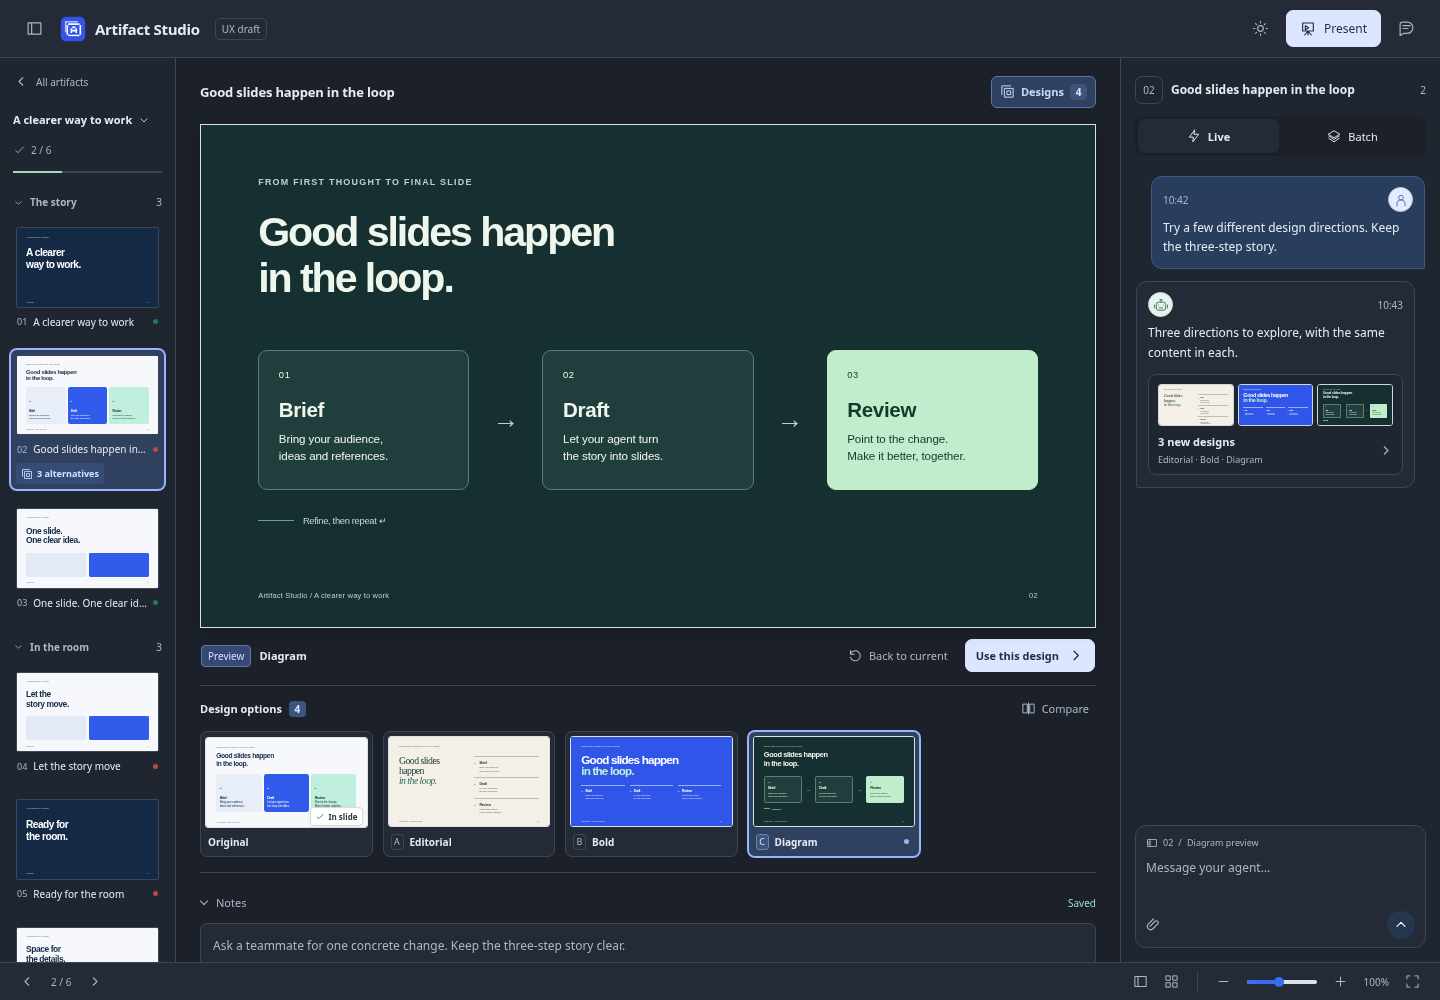
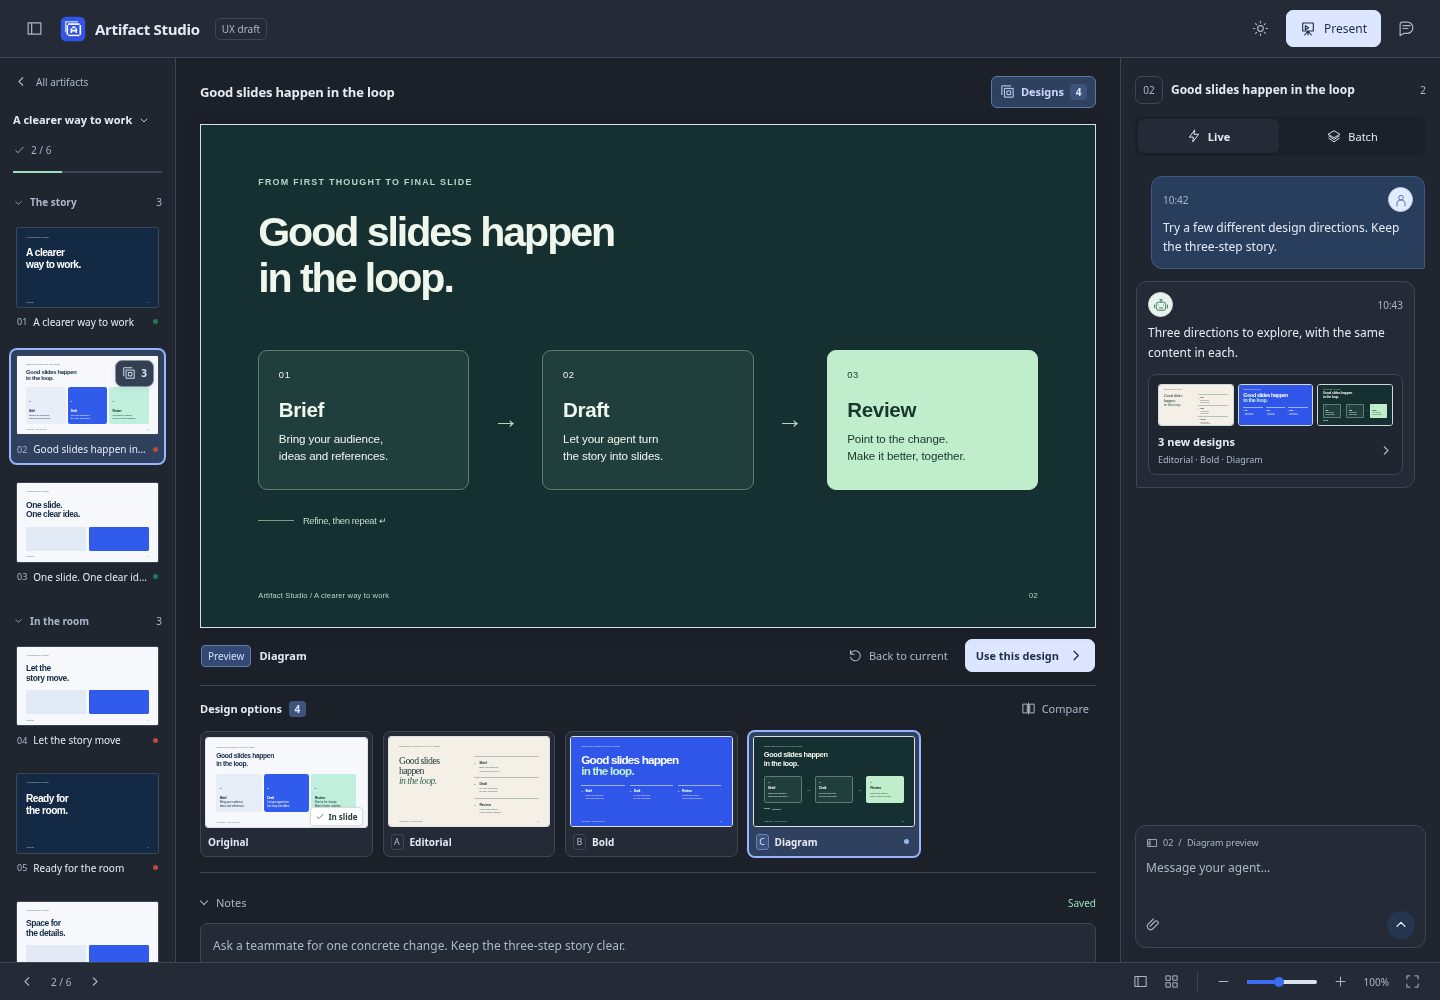
docs(ux): add clickable hover previews for slide alternatives

Changed region(s): [[0.0, 0.465, 0.125, 0.961], [0.0625, 0.341, 0.125, 0.403]]

diff --git a/docs/prototypes/slide-alternatives/prototype.js b/docs/prototypes/slide-alternatives/prototype.js
@@ -38,12 +38,74 @@
   ];
   let current = 'original', selected = 'original', activeSlide = 1, previousChoice = null, approved = false;
   let compareTrigger = null, compareReference = current;
+  const peek = $('alternative-peek');
+  let peekTrigger = null, peekCloseTimer = null, suppressPeekFocus = false;
   const announce = text => { $('live-status').textContent = text; };
   const selectedIsCurrent = () => selected === current;
 
   function renderRail() {
-    $('slide-overview').innerHTML = slides.map((slide,index) => `${index === 0 || index === 3 ? `<div class="draft-section-label">${icon('down')}${index === 0 ? 'The story' : 'In the room'}<span>3</span></div>` : ''}<button class="draft-slide-thumb" data-slide="${index}" aria-label="Slide ${index+1}: ${slide.name}${index === 1 ? ', 3 alternative designs available' : ''}" ${index === activeSlide ? 'aria-current="true"' : ''}><div class="rail-slide-image" aria-hidden="true">${index === 1 ? design(current).html : slide.html}</div><span class="rail-slide-caption"><span class="rail-slide-number">0${index+1}</span><span>${slide.name}</span><span class="dot ${index === 0 || index === 2 ? 'green' : 'red'}"></span></span>${index === 1 ? `<span class="rail-alternatives">${icon('designs')}3 alternatives</span>` : ''}</button>`).join('');
+    closeAlternativePeek();
+    $('slide-overview').innerHTML = slides.map((slide,index) => `${index === 0 || index === 3 ? `<div class="draft-section-label">${icon('down')}${index === 0 ? 'The story' : 'In the room'}<span>3</span></div>` : ''}<div class="draft-slide-entry"><button class="draft-slide-thumb" data-slide="${index}" aria-label="Slide ${index+1}: ${slide.name}${index === 1 ? ', 3 alternative designs available' : ''}" ${index === activeSlide ? 'aria-current="true"' : ''}><div class="rail-slide-image" aria-hidden="true">${index === 1 ? design(current).html : slide.html}</div><span class="rail-slide-caption"><span class="rail-slide-number">0${index+1}</span><span>${slide.name}</span><span class="dot ${index === 0 || index === 2 ? 'green' : 'red'}"></span></span></button>${index === 1 ? `<button class="rail-alternatives" data-alternatives aria-label="View 3 alternative designs for slide 2" aria-expanded="false" aria-controls="alternative-peek" aria-describedby="alternative-peek-help">${icon('designs')}<span>3</span></button>` : ''}</div>`).join('');
   }
+
+  function closeAlternativePeek({restoreFocus = false} = {}) {
+    clearTimeout(peekCloseTimer);
+    if (peek.matches(':popover-open')) peek.hidePopover();
+    peekTrigger?.setAttribute('aria-expanded','false');
+    if (restoreFocus && peekTrigger?.isConnected) { suppressPeekFocus = true; peekTrigger.focus({preventScroll:true}); suppressPeekFocus = false; }
+  }
+
+  function positionAlternativePeek(point) {
+    const width = peek.offsetWidth, height = peek.offsetHeight;
+    let top = point.y-height-16;
+    if (top < 12) top = point.y+18;
+    peek.style.left = `${Math.max(16,Math.min(innerWidth-width-16,point.x-35))}px`;
+    peek.style.top = `${Math.max(16,Math.min(innerHeight-height-16,top))}px`;
+  }
+
+  function openAlternativePeek(trigger, point) {
+    clearTimeout(peekCloseTimer);
+    peekTrigger = trigger;
+    if (!peek.matches(':popover-open')) {
+      $('peek-fan').innerHTML = designs.filter(item => item.id !== current).map(item => `<span class="peek-slot"><button class="peek-card" data-peek-design="${item.id}" aria-label="Preview ${item.name} design"><span class="peek-card-image" aria-hidden="true">${item.html}</span><span class="peek-card-name">${item.name}</span></button></span>`).join('');
+      peek.showPopover();
+      trigger.setAttribute('aria-expanded','true');
+    }
+    const rect = trigger.getBoundingClientRect();
+    positionAlternativePeek(point || {x:rect.left+rect.width/2,y:rect.top});
+  }
+
+  function queuePeekClose() {
+    clearTimeout(peekCloseTimer);
+    peekCloseTimer = setTimeout(() => {
+      if (!peek.matches(':hover') && !peekTrigger?.matches(':hover') && !peek.contains(doc.activeElement) && doc.activeElement !== peekTrigger) closeAlternativePeek();
+    },240);
+  }
+
+  function openDesignOptions(id) {
+    closeAlternativePeek();
+    if (activeSlide !== 1) { activeSlide = 1; selected = current; renderSlide(); }
+    $('design-tray').hidden = false; $('design-toggle').setAttribute('aria-expanded','true');
+    doc.body.classList.remove('slides-open'); $('toggle-slides').setAttribute('aria-expanded','false');
+    preview(id || (selected !== current ? selected : designs.find(item => item.id !== current).id),{focus:true});
+    $('design-tray').scrollIntoView({block:'nearest'});
+  }
+
+  $('slide-overview').addEventListener('pointerover', event => { const trigger = event.target.closest('[data-alternatives]'); if (trigger && event.pointerType !== 'touch' && !trigger.contains(event.relatedTarget)) openAlternativePeek(trigger,{x:event.clientX,y:event.clientY}); });
+  $('slide-overview').addEventListener('pointermove', event => { if (event.target.closest('[data-alternatives]') && peek.matches(':popover-open')) positionAlternativePeek({x:event.clientX,y:event.clientY}); });
+  $('slide-overview').addEventListener('pointerout', event => { const trigger = event.target.closest('[data-alternatives]'); if (trigger && !trigger.contains(event.relatedTarget)) queuePeekClose(); });
+  $('slide-overview').addEventListener('focusin', event => { const trigger = event.target.closest('[data-alternatives]'); if (trigger && !suppressPeekFocus && trigger.matches(':focus-visible')) openAlternativePeek(trigger); });
+  $('slide-overview').addEventListener('focusout', queuePeekClose);
+  $('slide-overview').addEventListener('keydown', event => { if (event.key === 'ArrowDown' && event.target.closest('[data-alternatives]')) { event.preventDefault(); openAlternativePeek(event.target.closest('[data-alternatives]')); peek.querySelector('[data-peek-design]').focus(); } });
+  peek.addEventListener('pointerenter', () => clearTimeout(peekCloseTimer));
+  peek.addEventListener('pointerleave', queuePeekClose);
+  peek.addEventListener('focusout', queuePeekClose);
+  peek.addEventListener('click', event => { const option = event.target.closest('[data-peek-design]'); if (option) openDesignOptions(option.dataset.peekDesign); });
+  $('peek-all').addEventListener('click', () => openDesignOptions());
+  doc.addEventListener('pointerdown', event => { if (!peek.contains(event.target) && !event.target.closest('[data-alternatives]')) closeAlternativePeek(); });
+  doc.addEventListener('keydown', event => { if (event.key === 'Escape' && peek.matches(':popover-open')) { event.preventDefault(); event.stopImmediatePropagation(); closeAlternativePeek({restoreFocus:peek.contains(doc.activeElement) || doc.activeElement === peekTrigger}); } },true);
+  doc.addEventListener('scroll', () => closeAlternativePeek(),true);
+  window.addEventListener('resize', () => closeAlternativePeek());
 
   function optionMarkup(item, prefix) {
     return `<button class="design-option" role="tab" id="${prefix}-${item.id}" aria-selected="${item.id === selected}" ${prefix === 'design' ? 'aria-controls="slide-stage"' : 'aria-controls="compare-candidate"'} tabindex="${item.id === selected ? '0' : '-1'}" data-design="${item.id}" aria-label="${item.name}${item.id === current ? ', in slide' : ''}"><span class="design-option-image" aria-hidden="true">${item.html}</span><span class="design-option-label">${item.letter ? `<span class="option-letter" aria-hidden="true">${item.letter}</span>` : ''}<strong>${item.name}</strong></span>${item.id === current ? `<span class="in-slide-mark" aria-hidden="true">${icon('check')}In slide</span>` : ''}</button>`;
@@ -139,7 +201,7 @@
   $('close-compare').addEventListener('click', closeComparison);
   $('compare-dialog').addEventListener('close', () => { compareTrigger?.focus({preventScroll:true}); });
   $('design-toggle').addEventListener('click', () => { const expanded = $('design-toggle').getAttribute('aria-expanded') === 'true'; $('design-tray').hidden = expanded; $('design-toggle').setAttribute('aria-expanded',String(!expanded)); });
-  $('review-designs').addEventListener('click', () => { activeSlide = 1; renderSlide(); $('design-tray').hidden = false; $('design-toggle').setAttribute('aria-expanded','true'); preview(designs.find(item => item.id !== current).id,{focus:true}); $('design-tray').scrollIntoView({block:'nearest'}); });
+  $('review-designs').addEventListener('click', () => openDesignOptions());
   $('undo-choice').addEventListener('click', () => {
     if (previousChoice === null) return;
     current = previousChoice.id; approved = previousChoice.approved; selected = current; previousChoice = null;
@@ -166,7 +228,7 @@
     if (activeSlide === 1) { render(); $('design-toggle').setAttribute('aria-expanded','true'); }
     else { $('slide-stage').innerHTML = slides[activeSlide].html; $('slide-stage').removeAttribute('aria-labelledby'); $('slide-stage').setAttribute('role','region'); $('approve').hidden = false; }
   }
-  $('slide-overview').addEventListener('click', event => { const thumb = event.target.closest('[data-slide]'); if (!thumb) return; activeSlide = Number(thumb.dataset.slide); selected = current; renderSlide(); doc.body.classList.remove('slides-open'); $('toggle-slides').setAttribute('aria-expanded','false'); if (innerWidth > 600) doc.querySelector(`[data-slide="${activeSlide}"]`).focus({preventScroll:true}); else $('toggle-slides').focus(); });
+  $('slide-overview').addEventListener('click', event => { if (event.target.closest('[data-alternatives]')) { openDesignOptions(); return; } const thumb = event.target.closest('[data-slide]'); if (!thumb) return; activeSlide = Number(thumb.dataset.slide); selected = current; renderSlide(); doc.body.classList.remove('slides-open'); $('toggle-slides').setAttribute('aria-expanded','false'); if (innerWidth > 600) doc.querySelector(`[data-slide="${activeSlide}"]`).focus({preventScroll:true}); else $('toggle-slides').focus(); });
   $('toggle-theme').addEventListener('click', () => { const dark = doc.documentElement.dataset.theme !== 'dark'; doc.documentElement.dataset.theme = dark ? 'dark' : 'light'; $('toggle-theme').setAttribute('aria-label',`Switch to ${dark ? 'light' : 'dark'} appearance`); });
   $('toggle-slides').addEventListener('click', () => { const open = doc.body.classList.toggle('slides-open'); $('toggle-slides').setAttribute('aria-expanded',String(open)); });
   $('toggle-chat').addEventListener('click', () => { const narrow = innerWidth <= 1100; doc.body.classList.toggle(narrow ? 'chat-open' : 'chat-closed'); $('toggle-chat').setAttribute('aria-expanded',String(narrow ? doc.body.classList.contains('chat-open') : !doc.body.classList.contains('chat-closed'))); });

diff --git a/docs/prototypes/slide-alternatives/prototype.css b/docs/prototypes/slide-alternatives/prototype.css
@@ -34,16 +34,37 @@ button:focus-visible,a:focus-visible,textarea:focus-visible,[tabindex]:focus-vis
 .draft-section-label{display:flex;align-items:center;gap:6px;padding:10px 3px 12px;font-size:10px;font-weight:600;color:var(--draft-muted)}
 .draft-section-label .ui-icon{width:11px;height:11px}
 .draft-section-label>span:last-child{margin-left:auto;font-weight:400}
-.draft-slide-thumb{display:block;width:100%;padding:5px;border:1px solid transparent;background:transparent;border-radius:7px;margin-bottom:12px;text-align:left}
-.draft-slide-thumb[aria-current=true]{border-color:var(--draft-blue);background:var(--draft-selected);box-shadow:0 0 0 1px var(--draft-blue)}
+.draft-slide-entry{position:relative;margin-bottom:12px;border:1px solid transparent;border-radius:7px}
+.draft-slide-entry:has([aria-current=true]){border-color:var(--draft-blue);background:var(--draft-selected);box-shadow:0 0 0 1px var(--draft-blue)}
+.draft-slide-thumb{display:block;width:100%;padding:5px;border:0;background:transparent;border-radius:7px;text-align:left}
 .rail-slide-image{width:100%;aspect-ratio:16/9;border:1px solid var(--draft-line);border-radius:2px;overflow:hidden;container-type:inline-size;position:relative}
 .rail-slide-caption{display:flex;align-items:center;gap:6px;margin:7px 1px 2px;font-size:10px;min-width:0}
 .rail-slide-caption>span:nth-child(2){white-space:nowrap;overflow:hidden;text-overflow:ellipsis;flex:1}
 .rail-slide-caption>.dot{width:5px;height:5px}
 .rail-slide-number{font-size:9px;color:var(--draft-muted)}
-.rail-alternatives{display:flex;gap:4px;align-items:center;width:fit-content;font-size:9px;font-weight:600;color:#315ab4;background:#e2ebff;border-radius:4px;padding:4px 5px;margin:7px 0 0}
-.rail-alternatives .ui-icon{width:12px;height:12px}
-:root[data-theme=dark] .rail-alternatives{background:#354c77;color:#d5e1ff}
+.rail-alternatives{position:absolute;right:10px;top:10px;display:flex;gap:5px;align-items:center;justify-content:center;min-width:39px;height:27px;font-size:10px;font-weight:600;color:#465a77;background:#fffffff5;border:1px solid #cbd6e5;border-radius:7px;padding:4px 6px;box-shadow:0 2px 6px #18315412;cursor:pointer}
+.rail-alternatives .ui-icon{width:14px;height:14px}
+.rail-alternatives:hover,.rail-alternatives:focus-visible,.rail-alternatives[aria-expanded=true]{background:#edf3ff;border-color:#7093d6;color:#244d9b;box-shadow:0 3px 9px #244d9b20}
+:root[data-theme=dark] .rail-alternatives{background:#2c3749f5;color:#dbe6ff;border-color:#8292ae}
+:root[data-theme=dark] .rail-alternatives:hover,:root[data-theme=dark] .rail-alternatives:focus-visible,:root[data-theme=dark] .rail-alternatives[aria-expanded=true]{background:#3b527d;border-color:#a5c0ff;color:#fff}
+.alternative-peek{position:fixed;inset:auto;margin:0;width:min(424px,calc(100vw - 32px));padding:14px 12px 7px;border:0;overflow:visible;background:transparent;color:var(--draft-ink)}
+.alternative-peek:popover-open{display:flex;flex-direction:column;align-items:center}
+.peek-fan{position:relative;width:100%;height:133px;isolation:isolate}
+.peek-slot{position:absolute;top:9px;width:39%;z-index:1}
+.peek-slot:nth-child(1){left:0;--peek-angle:-9deg;--peek-y:11px}
+.peek-slot:nth-child(2){left:30.5%;--peek-y:-7px;z-index:2}
+.peek-slot:nth-child(3){right:0;--peek-angle:9deg;--peek-y:11px}
+.peek-slot:hover,.peek-slot:focus-within{z-index:3}
+.peek-card{position:relative;display:block;width:100%;padding:5px 5px 6px;background:var(--draft-surface);border:1px solid #c6d0df;border-radius:9px;box-shadow:0 12px 26px #192f4b28,0 2px 5px #102d4b17;text-align:left;transform-origin:50% 100%;transform:translateY(var(--peek-y,0px)) rotate(var(--peek-angle,0deg))}
+.peek-card-image{display:block;aspect-ratio:16/9;position:relative;container-type:inline-size;overflow:hidden;border:1px solid #d7dfea;border-radius:4px;pointer-events:none}
+.peek-card-name{display:block;font-size:10px;font-weight:550;line-height:1.3;padding:6px 3px 0}
+.peek-slot:nth-child(3) .peek-card-name{text-align:right}
+.peek-slot:hover .peek-card,.peek-card:focus-visible{transform:translateY(-17px) rotate(0deg);border-color:var(--draft-blue);background:var(--draft-surface);box-shadow:0 16px 30px #192f4b33,0 0 0 1px var(--draft-blue)}
+.peek-all{display:inline-flex;align-items:center;gap:7px;padding:6px 10px;font-size:10px;font-weight:550;border-radius:20px;border:1px solid var(--draft-line);background:var(--draft-surface);box-shadow:0 3px 12px #14243b18}
+.peek-all .ui-icon{width:13px;height:13px}
+:root[data-theme=dark] .peek-card{border-color:#78869f;box-shadow:0 12px 26px #0005,0 2px 5px #0003}
+@media(hover:none),(pointer:coarse){.rail-alternatives{min-width:44px;height:36px;right:8px;top:8px}}
+@media(prefers-reduced-motion:no-preference){.rail-alternatives{transition:background .15s,border-color .15s,box-shadow .15s,transform .15s}.rail-alternatives:hover{transform:translateY(-1px)}.peek-card{transition:transform .16s ease,box-shadow .16s ease,border-color .16s ease}.alternative-peek:popover-open{animation:peek-appear .16s ease-out;transform-origin:25% 100%}@keyframes peek-appear{from{opacity:0;transform:translateY(7px) scale(.96)}to{opacity:1;transform:translateY(0) scale(1)}}}
 .draft-canvas{padding:17px 24px 22px;overflow:auto;scrollbar-width:thin;min-width:0}
 .draft-canvas-header{display:flex;align-items:center;gap:12px;margin-bottom:16px;min-height:33px}
 .draft-canvas-header h1{font-size:13px;font-weight:650;letter-spacing:-.15px;margin:0;white-space:nowrap;text-overflow:ellipsis;overflow:hidden;flex:1}

diff --git a/docs/prototypes/slide-alternatives/index.html b/docs/prototypes/slide-alternatives/index.html
@@ -62,6 +62,12 @@
     </aside>
   </main>
 
+  <section id="alternative-peek" class="alternative-peek" popover="manual" aria-label="Alternative slide designs">
+    <div class="peek-fan" id="peek-fan"></div>
+    <button class="peek-all" id="peek-all">View all designs<span data-icon="right"></span></button>
+  </section>
+  <span id="alternative-peek-help" class="sr-only">Arrow down to explore previews, or Enter to open the design options. Escape closes the previews.</span>
+
   <footer class="draft-footer"><span class="footer-position"><span data-icon="left"></span><span id="footer-slide">2 / 6</span><span data-icon="right"></span></span><div><span data-icon="panelLeft"></span><span data-icon="grid"></span><span class="draft-divider"></span><span data-icon="minus"></span><span class="zoom-track"></span><span data-icon="plus"></span><span>100%</span><span data-icon="fullscreen"></span></div></footer>
 
   <dialog id="compare-dialog" class="compare-dialog" aria-labelledby="compare-title">

diff --git a/docs/prototypes/slide-alternatives/README.md b/docs/prototypes/slide-alternatives/README.md
@@ -11,7 +11,7 @@ The chooser runs entirely in memory. It makes no product API calls, generates no
 
 ## Proposed experience
 
-1. **Discover.** The slide overview shows “3 alternatives”; the editor's Designs button counts the original plus those three. The agent's chat reply contains a visual entry point to the options. Alternatives are parallel design directions, separate from chronological version history.
+1. **Discover.** A compact stacked-cards control with a “3” sits on the slide thumbnail. Hovering reveals a fan of actual design previews just above the cursor, with subtle depth and a lift when hovering a card. Click a card to preview that design on the main canvas, or click/tap the count to open the chooser. Keyboard focus also exposes the fan; Arrow Down enters its previews and Escape dismisses it. Hovering alone keeps the canvas and chosen design unchanged. The editor's Designs button counts the original plus the three alternatives. The agent's chat reply also opens the options. Alternatives are parallel design directions, separate from chronological version history.
 2. **Preview.** Click a named thumbnail or use arrow keys, Home and End. A blue selection identifies the preview. “In slide” continues to mark the actual chosen design, including on its thumbnail. The preview state and **Use this design** stay beside the canvas even if the options row is collapsed. Escape returns to the chosen design.
 3. **Compare.** Compare the current design with a proposal, or any two proposals. Both previews share dimensions and alignment. Either visible design can be chosen directly. On phones the previews stack; short screens use the two dropdowns instead of squeezing in another thumbnail row. The decision controls remain available while previews scroll.
 4. **Choose.** **Use this design** changes the slide's chosen design, updates its overview thumbnail, preserves every proposal and offers **Undo**. It returns the slide to review; choosing a design and approving a slide are separate decisions. Approval is hidden while previewing. Present uses the chosen design.
@@ -23,6 +23,10 @@ The chooser runs entirely in memory. It makes no product API calls, generates no
 
 [Choice and Undo](screenshots/03-chosen.png) · [Dark appearance](screenshots/04-dark.png) · [Phone preview](screenshots/05-mobile.png) · [Phone comparison](screenshots/06-mobile-compare.png)
 
+![A compact count reveals clickable design previews around the cursor.](screenshots/08-hover-detail.png)
+
+[Full hover view](screenshots/07-hover.png) · [Hover in dark appearance](screenshots/09-hover-dark.png)
+
 ## Iterations made in the browser
 
 - Reduced the thumbnail row's width to preserve space for the slide and expanded notes.
@@ -30,6 +34,7 @@ The chooser runs entirely in memory. It makes no product API calls, generates no
 - Extended comparison from current-versus-proposal to any pair, with a direct choice of either design.
 - Aligned both comparison canvases and kept the decision controls visible on short screens.
 - Added dropdown switching on compact comparisons, kept the current-design marker visible, and corrected accessible names and muted footer contrast.
+- Replaced the filled “3 alternatives” badge with a quiet count on the thumbnail and a cursor-adjacent preview fan. Cards lift without shifting their hover area, remain clickable, and open a temporary canvas preview. Keyboard and touch retain direct access to the chooser; reduced-motion preferences disable the fan animation.
 
 ## Behavior to retain in implementation
 
@@ -45,6 +50,6 @@ Component proposals must be tied to one chosen slide design and a stable compone
 
 ## Verification
 
-Browser review covers mouse and keyboard switching, safe preview, either-side comparison choices, apply/undo, preserved notes, retained alternatives, presentation using the chosen design, and light/dark layouts at 1440, 768, 390 and 320 pixels. Axe-core 4.14.0 reported no A/AA violations across 17 sampled states; this is not a complete accessibility certification. The 320px comparison keeps its choice button inside the viewport. The standalone download was also exercised offline without external requests.
+Browser review covers mouse and keyboard switching, safe preview, either-side comparison choices, apply/undo, preserved notes, retained alternatives, presentation using the chosen design, and light/dark layouts at 1440, 768, 390 and 320 pixels. The hover review exercises pointer entry/exit, moving onto the cards, clicking all three proposals, Arrow Down/Enter, Escape with focus restoration, touch access, and reduced motion. Axe-core 4.14.0 reported no A/AA violations in 22 sampled states; this is not a complete accessibility certification. The 320px comparison keeps its choice button inside the viewport. The standalone download was exercised offline without external requests.
 
-Screenshots are direct Chromium captures of this prototype with fictional data; they are not images of an implemented product feature. [Capture provenance and sampled results](captures.json) accompany the six images. Physical-device and user usability testing remain follow-up work.
+Screenshots are direct Chromium captures of this prototype with fictional data; they are not images of an implemented product feature. [Capture provenance and sampled results](captures.json) accompany the nine images. Physical-device and user usability testing remain follow-up work.
